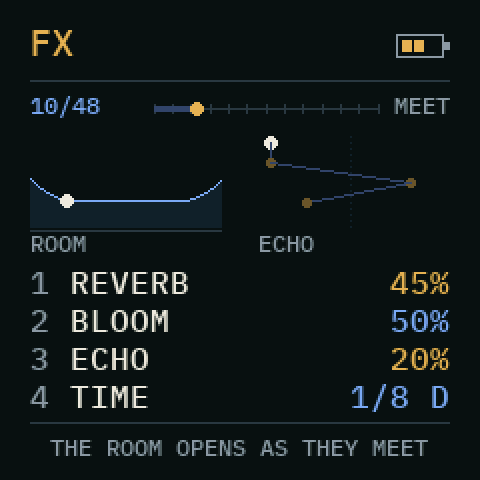
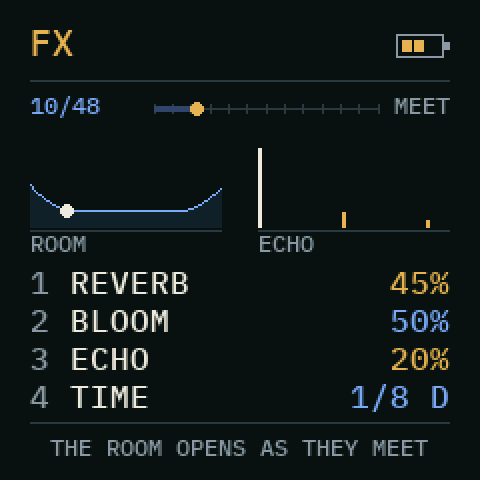
PLUMB 0.5: a stronger bloom; the echo back to the one before 0.4
Claude-Session: https://claude.ai/code/session_01WXTHtg2USk519xnSSNwSR7

diff --git a/firmware/src/dinghy.c b/firmware/src/dinghy.c
@@ -12,7 +12,7 @@
  *   THE ARP            held keys replace the row: the pendulums play your chord
  *
  * The files: plumb.h (the pendulums, the engines, the ENV, the LFO; the audio interrupt), scale.h (48 scales),
- * effects.h (the SWING ECHO and the reverb that BLOOMs, in parallel), this file (the keys, the presets, the pages). platform.c and the
+ * effects.h (the echo and the reverb that BLOOMs, in parallel), this file (the keys, the presets, the pages). platform.c and the
  * kit_*.h are Dinghy's. */
 #include <stdint.h>
 #define APP_NAME "PLUMB"
@@ -791,41 +791,35 @@ static int32_t bloom_near(uint32_t c32)
     return b * b >> 8;                          /* (eased in) */
 }
 
-/* --- FX: on the left the ROOM over one cycle (it opens as they meet, the dot is now); on the right the SWING ECHO,
- * its repeats going down in time, left, right, left, narrower and fainter until they rest in the middle */
+/* --- FX: on the left the ROOM over one cycle (it opens as they meet, the dot is now); on the right the ECHO */
 static void draw_fx_pic(void)
 {
     cv_begin(UI_WIDTH, PIC_H, C_BG);
     const int32_t RW = 96, base = 46;
     cv_rect(0, base + 1, RW, 1, C_RULE);
-    int32_t prev = 0, rest = 8 + pat.reverb * 14 / 100;
+    int32_t prev = 0, rest = (6 + pat.reverb * 12 / 100) * (100 - (int32_t)pat.bloom * 35 / 100) / 100;
     for (int32_t x = 0; x < RW; x++) {
         uint32_t c = (uint32_t)x * (0xFFFFFFFFu / (uint32_t)RW);
-        int32_t h = pat.reverb ? rest + bloom_near(c) * (int32_t)pat.bloom * 22 / (256 * 100) : 0;
+        int32_t h = pat.reverb ? rest + bloom_near(c) * (int32_t)pat.bloom * 26 / (256 * 100) : 0;
         cv_rect(x, base - h, 1, h, C_GRAPH);
         if (x && pat.reverb) cv_line(x - 1, base - prev, x, base - h, C_TIME);
         prev = h;
     }
     if (pat.reverb && clk_run && pd_running) {
         int32_t x = (int32_t)(((uint64_t)pd_c32 * (uint32_t)RW) >> 32);
-        int32_t h = rest + bloom_near(pd_c32) * (int32_t)pat.bloom * 22 / (256 * 100);
+        int32_t h = rest + bloom_near(pd_c32) * (int32_t)pat.bloom * 26 / (256 * 100);
         cv_disc(x, base - h, 3, C_KEY);
     }
     cv_text(0, 48, &UI_SMALL, "ROOM", C_OFF, C_BG);
-    /* the echo */
-    const int32_t cx = 160;
-    for (int32_t y = 0; y < 46; y += 3) cv_pset(cx, y, C_GRAPH);
-    cv_disc(cx - 40, 3, 3, C_KEY);               /* the strike goes in on the left */
-    int32_t w = 40 * 32768, level = pat.echo * 32768 / 100, px = cx - 40, py = 3;
-    int32_t step = 4 + (int32_t)echo_clocks[pat.echo_time] / 3;
-    for (int32_t i = 1; level > 1500 && 3 + i * step < 46; i++) {
-        int32_t x = cx + ((i & 1) ? -1 : 1) * (w >> 15), y = 3 + i * step;
-        cv_line(px, py, x, y, C_TIME_DIM);
-        cv_disc(x, y, level > 16000 ? 3 : 2, level > 9000 ? C_BOB : C_BOB_DIM);
-        px = x; py = y;
-        w = w / 32768 * (32768 - 2 * 4096);     /* narrower each pass (ECHO_BLEED, both ways) */
+    /* the echo: a strike, then its repeats, each quieter */
+    const int32_t ex = RW + 18;
+    cv_rect(ex, 46 - 40, 2, 40, C_KEY);
+    int32_t step = 6 + (int32_t)echo_clocks[pat.echo_time] * 2, level = pat.echo * 40 / 100;
+    for (int32_t x = ex + step; x < (int32_t)UI_WIDTH - 2 && level > 1; x += step) {
+        cv_rect(x, 46 - level, 2, level, C_BOB);
         level = level * 55 / 100;
     }
+    cv_rect(ex, base + 1, (int32_t)UI_WIDTH - ex, 1, C_RULE);
     cv_text(RW + 18, 48, &UI_SMALL, "ECHO", C_OFF, C_BG);
     cv_blit(UI_LEFT, PIC_Y);
 }
@@ -956,15 +950,17 @@ static void update_fx(void)
     /* BLOOM: the room is a little smaller and darker while they are scattered, and opens (longer, brighter, a
      * little louder) as they come back into a line */
     int32_t b = clk_run && pd_running ? bloom_near(pd_c32) * (int32_t)pat.bloom / 100 : 0;   /* 0 .. 256 */
-    int32_t calm = clk_run && pd_running ? (int32_t)pat.bloom * 12 / 100 : 0;
-    uint32_t decay = (uint32_t)(84 - calm + b * (30 + 12) / 256);     /* at most 114 (the hall stays stable < 117) */
-    uint32_t damping = (uint32_t)(40 - b * 26 / 256);
-    uint32_t mix = (uint32_t)pat.reverb + (uint32_t)(pat.reverb * b * 3 / (256 * 10));
+    int32_t calm = clk_run && pd_running ? (int32_t)pat.bloom * 30 / 100 : 0;
+    uint32_t decay = (uint32_t)(84 - calm + b * (30 + 30) / 256);     /* at most 114 (the hall stays stable < 117) */
+    uint32_t damping = (uint32_t)(40 + calm / 2 - b * (34 + 15) / 256);   /* darker scattered, bright at the meeting */
+    uint32_t dry_part = (uint32_t)(100 - (int32_t)pat.bloom * 35 / 100);   /* scattered: a smaller send */
+    uint32_t mix = (uint32_t)pat.reverb * (dry_part * 256u + (uint32_t)b * (190u - dry_part)) / 25600u;   /* at the meeting
+                                                 * up to 1.9 x the REVERB knob */
     uint32_t state = bpm | (uint32_t)pat.echo << 9 | (uint32_t)pat.echo_time << 16 | decay << 19 | (damping & 63u) << 26;
     state ^= mix * 0x9e3779b9u;
     if (state == previous) return;
     previous = state;
-    echo_configure(pat.echo != 0, echo_tempo_samples(bpm, echo_clocks[pat.echo_time]), 62, pat.echo);
+    delay_configure(pat.echo != 0, delay_tempo_samples(bpm, echo_clocks[pat.echo_time]), 55, pat.echo);
     hall_configure(pat.reverb != 0, (uint8_t)decay, (uint8_t)damping, (uint8_t)mix);
 }
 

diff --git a/firmware/src/delay.h b/firmware/src/delay.h
@@ -1,0 +1,95 @@
+/* SPDX-License-Identifier: GPL-3.0-only */
+/* Shared 12-bit delay at 20 kHz. */
+#include "fx12.h"
+#define DELAY_CAPACITY (3u * FX12_RATE)
+#define DELAY_TIME_MASK 0x1ffffu
+#define DELAY_ENABLED (1u << 31)
+#define DELAY_FADE_SAMPLES 256u
+
+_Static_assert(DELAY_CAPACITY <= DELAY_TIME_MASK, "Delay time must fit its audio command");
+#ifdef DINGHY_HOST
+static int16_t delay_ring[DELAY_CAPACITY];
+#else
+static int16_t delay_ring[DELAY_CAPACITY] __attribute__((section(".pool")));
+#endif
+
+/* The main loop publishes all settings together for the audio interrupt. */
+static volatile uint32_t delay_command;
+static struct {
+    uint32_t head, valid, time, old_time, fade;
+    fx12_clock_t clock;
+    int32_t previous_wet, wet, mix, target_mix, feedback;
+} delay_state;
+
+static uint32_t delay_tempo_samples(uint32_t bpm, uint8_t clocks_per_echo)
+{
+    uint32_t clocks_per_minute = bpm * 24u;
+    return (FX12_RATE * 60u * clocks_per_echo + clocks_per_minute / 2u) / clocks_per_minute;
+}
+
+static void delay_configure(uint8_t on, uint32_t time, uint8_t feedback, uint8_t mix)
+{
+    delay_command = (on ? DELAY_ENABLED : 0) | time |
+                    (uint32_t)feedback << 17 | (uint32_t)mix << 24;
+}
+
+static int32_t delay_tap(uint32_t time)
+{
+    if (time > delay_state.valid) return 0;
+    uint32_t head = delay_state.head;
+    uint32_t index = head >= time ? head - time : head + DELAY_CAPACITY - time;
+    return delay_ring[index];
+}
+
+static int32_t delay_read(void)
+{
+    int32_t wet = delay_tap(delay_state.time);
+    if (delay_state.fade) {
+        int32_t old = delay_tap(delay_state.old_time);
+        wet += (old - wet) * (int32_t)delay_state.fade / (int32_t)DELAY_FADE_SAMPLES;
+        delay_state.fade--;
+    }
+    return wet;
+}
+
+static uint8_t delay_begin_block(void)
+{
+    uint32_t command = delay_command;
+    uint8_t enabled = (command & DELAY_ENABLED) != 0;
+    if (!enabled && !delay_state.mix) {
+        if (delay_state.time) {
+            /* Discard history without clearing the large buffer in the interrupt. */
+            delay_state.time = delay_state.valid = delay_state.fade = 0;
+            delay_state.clock = (fx12_clock_t){0};
+            delay_state.previous_wet = delay_state.wet = 0;
+        }
+        return 0;
+    }
+
+    uint32_t time = command & DELAY_TIME_MASK;
+    if (!delay_state.time) delay_state.time = time;
+    if (!delay_state.fade && delay_state.time != time) {
+        delay_state.old_time = delay_state.time;
+        delay_state.time = time;
+        delay_state.fade = DELAY_FADE_SAMPLES;
+    }
+
+    delay_state.feedback = (int32_t)((command >> 17) & 127u) * FX12_GAIN_ONE / 100;
+    delay_state.target_mix = enabled ? (int32_t)((command >> 24) & 127u) * FX12_GAIN_ONE / 100 : 0;
+    return 1;
+}
+
+static inline int32_t delay_render(int32_t dry)
+{
+    int32_t input;
+    if (fx12_input(&delay_state.clock, dry, &input)) {
+        delay_state.previous_wet = delay_state.wet;
+        delay_state.wet = delay_read();
+        int32_t write = input / 16 + delay_state.wet * delay_state.feedback / FX12_GAIN_ONE;
+        delay_ring[delay_state.head] = fx12_quantize(write);
+        if (++delay_state.head == DELAY_CAPACITY) delay_state.head = 0;
+        if (delay_state.valid < DELAY_CAPACITY) delay_state.valid++;
+    }
+    delay_state.mix = fx12_slew_mix(delay_state.mix, delay_state.target_mix);
+    return delay_state.mix ? fx12_output(&delay_state.clock, delay_state.previous_wet, delay_state.wet) : 0;
+}

diff --git a/firmware/src/effects.h b/firmware/src/effects.h
@@ -1,24 +1,24 @@
 /* SPDX-License-Identifier: GPL-3.0-only */
 /* PLUMB's two effects, in PARALLEL: each hears the dry sound on its own, none feeds the other.
- *   out = dry + SWING ECHO (echo.h: a ping-pong that comes to rest) + REVERB (hall.h; its tail BLOOMs as the
- *   pendulums meet: dinghy.c moves its decay with the cycle) */
-#include "echo.h"
+ *   out = dry + ECHO (delay.h, LOOPHEADS' 12-bit delay) + REVERB (hall.h; its tail BLOOMs as the pendulums meet:
+ *   dinghy.c moves its decay, brightness and level with the cycle) */
+#include "delay.h"
 #include "hall.h"
 
 static void effects_process(int32_t *out, uint32_t frames)
 {
-    uint8_t echo_active = echo_begin_block();
+    uint8_t delay_active = delay_begin_block();
     uint8_t hall_active = hall_begin_block();
-    if (!echo_active && !hall_active) return;
+    if (!delay_active && !hall_active) return;
 
     for (uint32_t frame = 0; frame < frames; frame++) {
         int32_t *pair = &out[2u * frame];
         int32_t dry = (pair[0] + pair[1]) / 2;
-        int32_t el = 0, er = 0, hl = 0, hr = 0;
-        if (echo_active) echo_render(dry, &el, &er);
+        int32_t echo = delay_active ? delay_render(dry) : 0;
+        int32_t hl = 0, hr = 0;
         if (hall_active) hall_render(dry, &hl, &hr);
-        int32_t em = echo.mix, hm = hall.mix;
-        pair[0] += el * em / FX12_GAIN_ONE + hl * hm / FX12_GAIN_ONE;
-        pair[1] += er * em / FX12_GAIN_ONE + hr * hm / FX12_GAIN_ONE;
+        int32_t e = echo * delay_state.mix / FX12_GAIN_ONE, hm = hall.mix;
+        pair[0] += e + hl * hm / FX12_GAIN_ONE;
+        pair[1] += e + hr * hm / FX12_GAIN_ONE;
     }
 }

diff --git a/tools/build.py b/tools/build.py
@@ -63,7 +63,7 @@ SCREEN_NAME = "PLUMB"               # the update loader's screen (FM-1, ldr_scre
 SCREEN_COLOUR = 0xE58A              # the plumb bob's brass, #E2B054
 FM1_PRODUCT = "FM-1_582961"         # PLUMB keeps this identity across releases (as BUOY, BEACHCOMBER, whywhywhy)
 PRODUCT = FM1_PRODUCT
-VERSION = "0.4"                     # APP_VER (a release build: --release X.Y)
+VERSION = "0.5"                     # APP_VER (a release build: --release X.Y)
 
 
 def toolchain():

diff --git a/README.md b/README.md
@@ -1,7 +1,7 @@
 # PLUMB
 
 <p align="center">
-  <img src="docs/screenshots/boot.png" width="320" alt="PLUMB boot screen: twelve brass plumb bobs hanging from a beam on lines of falling length, caught mid-swing in a wave, version 0.4">
+  <img src="docs/screenshots/boot.png" width="320" alt="PLUMB boot screen: twelve brass plumb bobs hanging from a beam on lines of falling length, caught mid-swing in a wave, version 0.5">
   <img src="docs/screenshots/home.png" width="320" alt="HOME page: twelve bobs seen from above, swinging across their lanes in a snake, one striking the blue line">
 </p>
 <p align="center">
@@ -35,8 +35,8 @@ passes its strike point it plays its note. Nothing is random; nothing repeats un
   RANDOM, or SPREAD: pendulum *k* plays note *k*), with RANGE, CHANCE and LATCH.
 - **The LFO** moves PITCH, FOLDS (DCW, FORMANT), SPARK or LEVEL, or **bends time**: its GRAVITY target pulls the
   pendulums ahead and holds them back, and they still meet.
-- **Effects with the pendulums' character**: the reverb **BLOOMs** as the pendulums meet (every cycle ends in a
-  swell), and the **SWING ECHO** bounces left, right, left, narrower each time, until it comes to rest in the middle.
+- **A reverb that BLOOMs**: small and dark while the pendulums are scattered, wide and bright as they meet: every
+  cycle ends in a swell. And an echo on the tempo.
 - **48 scales**, common and exotic. On the GLO page the keys transpose everything.
 - **The cycle line is on every page**: the beat of the cycle, and when they meet again.
 - **Dinghy inside**: MIDI clock sync (a DAW's START releases the pendulums on its downbeat), MIDI in and out (every
@@ -46,7 +46,7 @@ passes its strike point it plays its note. Nothing is random; nothing repeats un
 
 [Read the operator manual](docs/OPERATOR-MANUAL.md) · [Credits and licenses](LICENSING.md) · [Changelog](CHANGELOG.md)
 
-**Version 0.4** builds as `plumb.fwsc` (a tagged release: `plumb-0.4.fwsc`). The host tests pass. It has **not yet
+**Version 0.5** builds as `plumb.fwsc` (a tagged release: `plumb-0.5.fwsc`). The host tests pass. It has **not yet
 been installed on a physical FM‑1**.
 
 ## Build
@@ -60,7 +60,7 @@ Every push to `main` builds the package on GitHub and leaves it on the `build` b
 
 PLUMB is written on [Dinghy](https://github.com/zvenson/dinghy) by zvenson (its platform, MIDI clock sync, MIDI,
 mirror and backup kit), which carries the [Felucca](https://github.com/hugelton/Felucca) and
-[SLOOP](https://github.com/isod89/sloop-fm1) platform work. The hall (which PLUMB makes bloom), the 12-bit effect clock under the swing echo, the scales and the look of the
+[SLOOP](https://github.com/isod89/sloop-fm1) platform work. The delay, the hall (which PLUMB makes bloom), the scales and the look of the
 pages come from [LOOPHEADS](https://github.com/jaak-stjaaques/LOOPHEADS-public),
 [BEACHCOMBER](https://github.com/jaak-stjaaques/Beachcomber) and [BUOY](https://github.com/jaak-stjaaques/BUOY). The
 screen font is [IBM Plex Mono](https://github.com/IBM/plex). The pendulum wave is an old physics classroom demonstration;

diff --git a/docs/OPERATOR-MANUAL.md b/docs/OPERATOR-MANUAL.md
@@ -1,6 +1,6 @@
 # PLUMB operator manual
 
-PLUMB 0.4 for the M‑VAVE FM‑1. Twelve pendulums, one row of notes, three oscillator engines.
+PLUMB 0.5 for the M‑VAVE FM‑1. Twelve pendulums, one row of notes, three oscillator engines.
 
 ## The idea in one minute
 
@@ -139,16 +139,14 @@ play holds as long as you hold it.
 
 ## FX
 
-<p align="center"><img src="screenshots/fx.png" width="320" alt="FX: on the left the room over one cycle, larger at both ends where the pendulums meet, a dot at now; on the right the swing echo, its repeats zigzagging left and right and narrowing; the knobs REVERB, BLOOM, ECHO, TIME"></p>
+<p align="center"><img src="screenshots/fx.png" width="320" alt="FX: on the left the room over one cycle, larger at both ends where the pendulums meet, a dot at now; on the right a strike and its echoes; the knobs REVERB, BLOOM, ECHO, TIME"></p>
 
-Two effects with the pendulums' character, side by side (in parallel: neither feeds the other).
+The reverb and the echo, side by side (in parallel: neither feeds the other).
 
-- **The room BLOOMs.** The reverb is a little smaller and darker while the pendulums are scattered, and opens (a
-  longer, brighter, slightly louder tail) as they come back into a line. Every cycle ends in a swell. The picture's
-  left half is the room over one cycle; the dot is now.
-- **The SWING ECHO comes to rest.** The first repeat is on the left, the next on the right, then left again. Each pass
-  swings a little narrower and a little darker, until the last repeats sit quietly in the middle, like a released
-  pendulum. The picture's right half shows the repeats going down in time.
+- **The room BLOOMs.** While the pendulums are scattered the reverb is small, dark and quiet; as they come back into a
+  line it opens wide: a long, bright tail, up to almost twice as loud. Every cycle ends in a swell. The picture's left
+  half is the room over one cycle; the dot is now.
+- **The echo** repeats each strike on the tempo, each repeat quieter (right half of the picture).
 
 | Knob | | |
 | --- | --- | --- |

diff --git a/LICENSING.md b/LICENSING.md
@@ -8,9 +8,9 @@ complete source under the same licence too.
 
 - The app (`firmware/src/dinghy.c`), the pendulums and the three engines (`firmware/src/plumb.h`), `tools/gen_tables.py`,
   `tools/gen_boot_logo.py`, the docs and the screens: jaak-stjaaques, written with Claude (Anthropic).
-- PLUMB's own effects: the swing echo (`echo.h`, built on LOOPHEADS' 12-bit delay) and the bloom (in `dinghy.c`).
-- From the same author's **LOOPHEADS**, **BEACHCOMBER** and **BUOY**: the hall (`hall.h`), the 12-bit effect clock
-  (`fx12.h`), the scales (`scale.h`), the IBM Plex Mono screen font (`ui_font.h`,
+- PLUMB's own: the bloom of the reverb (in `dinghy.c`).
+- From the same author's **LOOPHEADS**, **BEACHCOMBER** and **BUOY**: the delay and the hall (`delay.h`, `hall.h`,
+  `fx12.h`), the scales (`scale.h`), the IBM Plex Mono screen font (`ui_font.h`,
   `tools/gen_ui_font.py`), the text drawing over a colour in `gfx.c`, and the look of the pages.
 - The ideas it plays with belong to everyone: the pendulum wave (a physics classroom demonstration), the wavefolder and
   low-pass gate of West Coast synthesis, Casio's phase distortion, Curtis Roads' pulsar synthesis.

diff --git a/CHANGELOG.md b/CHANGELOG.md
@@ -1,5 +1,11 @@
 # Changelog
 
+## 0.5 – 2026-11-25
+
+- **A stronger BLOOM**: while the pendulums are scattered the room is smaller, darker and quieter than before; as they
+  meet it opens wider, brighter and up to 1.9 x as loud. The contrast is what you hear.
+- **The echo is back to the one before 0.4** (the swing echo made the pendulums' pattern too busy to follow).
+
 ## 0.4 – 2026-11-25
 
 Effects with the pendulums' character, for the same memory and CPU as before.
